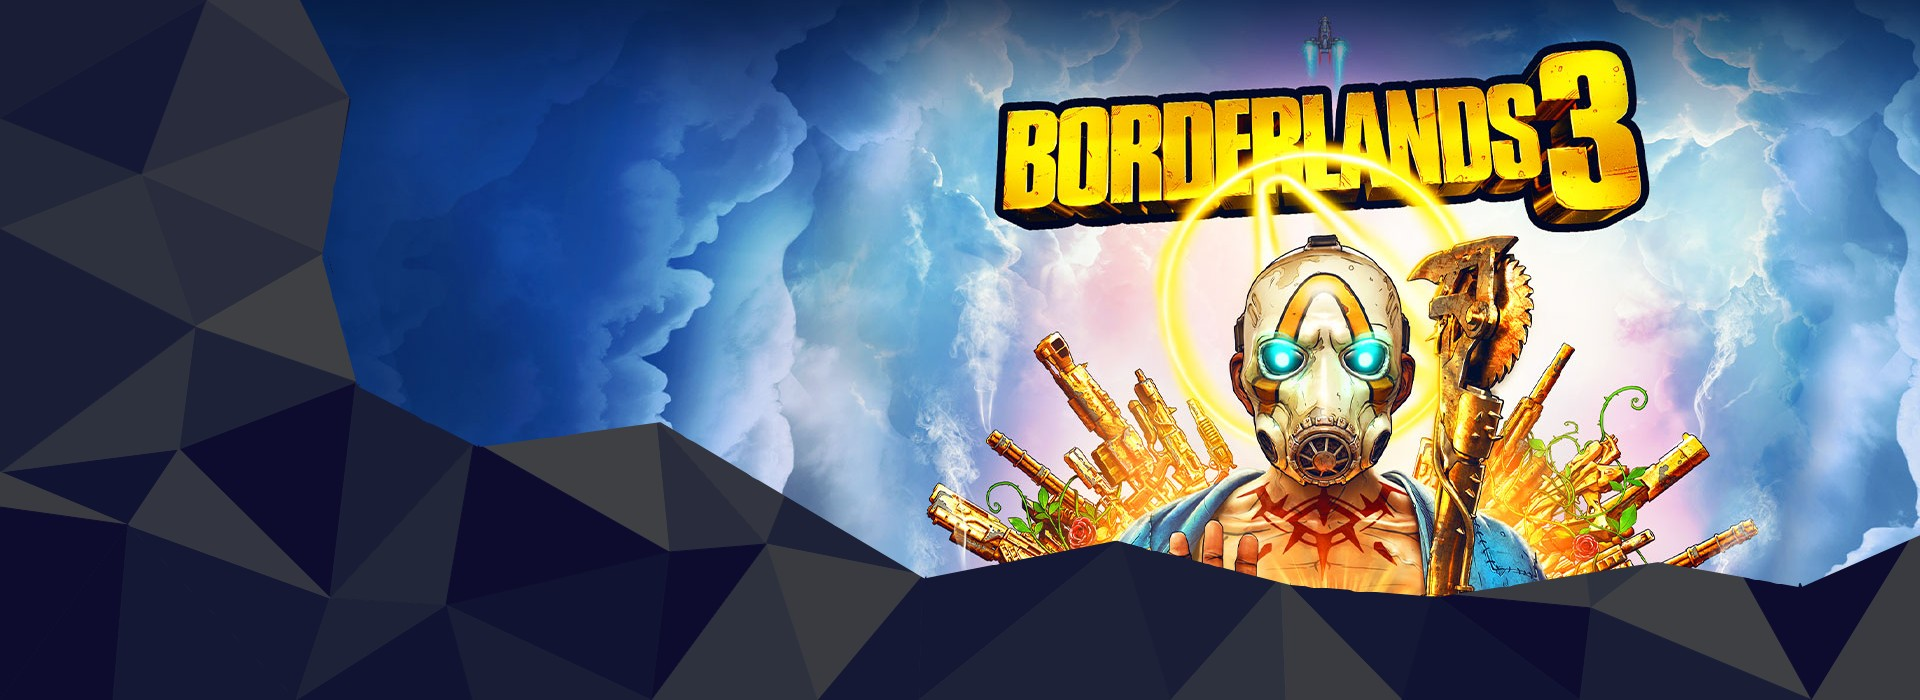
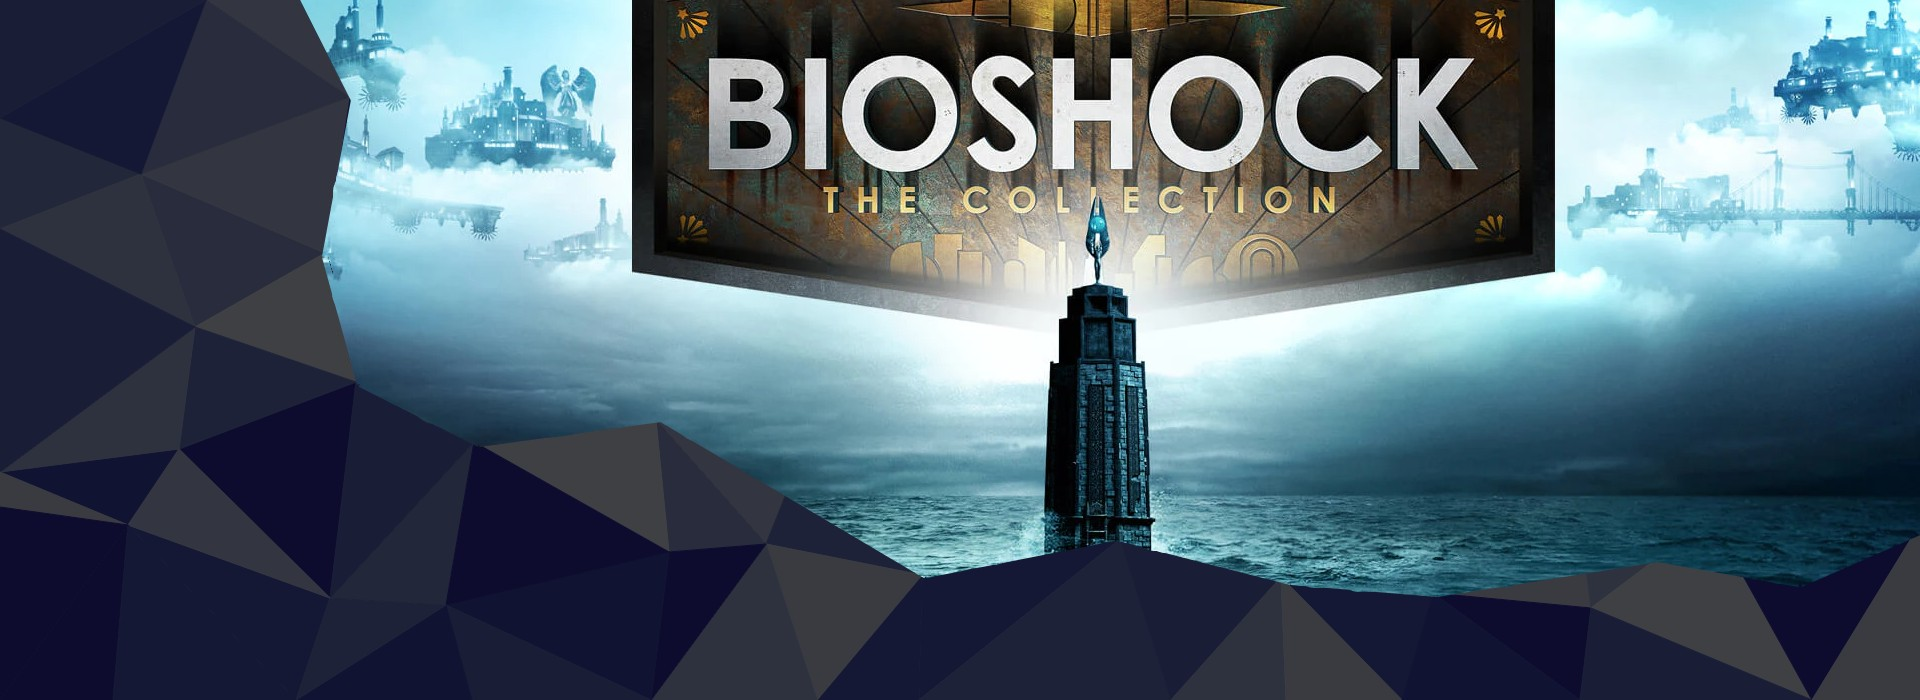
actualizacion 26/5

diff --git a/index.html b/index.html
@@ -61,7 +61,7 @@
                         <div class="carousel-caption d-md-block">
                             <h3 class="text-tipo2">Epic Games</h3>
                             <p class="text-tipo2">Descarga tu juego gratis de esta semana</p>
-                            <a href="https://store.epicgames.com/es-MX/p/borderlands-3" target="_blank"><button class="boton">Consiguelo</button></a>
+                            <a href="https://store.epicgames.com/es-MX/bundles/bioshock-the-collection" target="_blank"><button class="boton">Consiguelo</button></a>
                         </div>
                     </div>
                     <div class="carousel-item mislider">
@@ -113,31 +113,31 @@
             <h2 class="sub_title text-tipo1">Ultimas noticias</h2>
             <div class="info_1 fondo">
                 <div>                
-                    <h3 class="texto_h3 titulo_info1">MultiVersus</h3>
-                    <p class="texto_p parrafo_info1">Esta semana se dio a conocer un nuevo trail;er sobre este gran juego el cual nos plntea jugar con los personajes mas iconicos del mundo, encarna la piel del legendario batman o bien elige a superman, tambien puedes elegir shaggy, buggs bunny, arya stark, iron giants entre muchos personajes mas, podremos disfrutar una beta abierta este proximo julio</p>
+                    <h3 class="texto_h3 titulo_info1">League of legends</h3>
+                    <p class="texto_p parrafo_info1">Ya falta menos para la llegada de esta nueva campeona del vacio y Riot nos sorprende con esta increible skin de Battle Boss para la querida bel veth</p>
                 </div> 
                 <div> 
-                    <iframe width="560" height="315" src="https://www.youtube.com/embed/KJ1oXozcOto" title="YouTube video player" frameborder="0" allow="accelerometer; autoplay; clipboard-write; encrypted-media; gyroscope; picture-in-picture" allowfullscreen></iframe>
+                    <iframe width="560" height="315" src="https://www.youtube.com/embed/LewmGF--F0M" title="YouTube video player" frameborder="0" allow="accelerometer; autoplay; clipboard-write; encrypted-media; gyroscope; picture-in-picture" allowfullscreen></iframe>
                 </div> 
             </div>
 
             <div class="info_2 fondo">
                 <div class="video_2">
-                    <iframe width="560" height="315" src="https://www.youtube.com/embed/TasT4b1qweA" title="YouTube video player" frameborder="0" allow="accelerometer; autoplay; clipboard-write; encrypted-media; gyroscope; picture-in-picture" allowfullscreen></iframe>
+                    <iframe width="560" height="315" src="https://www.youtube.com/embed/PgbrOBvp7hk" title="YouTube video player" frameborder="0" allow="accelerometer; autoplay; clipboard-write; encrypted-media; gyroscope; picture-in-picture" allowfullscreen></iframe>
                 </div>
                 <div>
-                    <h3 class="texto_h3 titulo_info2">Vampire: the masquerade - swansong</h3>
-                    <p class="texto_p parrafo_info2">Este 19 de mayo salio a la venta el juego Vampire: the masquerade - swansong, aui te dejamos un launch trailer por si aun tienes dudas de comprarlo</p>  
+                    <h3 class="texto_h3 titulo_info2">No man's sky</h3>
+                    <p class="texto_p parrafo_info2">Nueva expansion para No man's sky donde debemos utilizar todas sus habilidades de supervivencia para ayudar al especialista Polo a descubrir el misterio de un curioso bucle que ha maldecido el continuo espacio-tiempo. Sospecha que este extraño fenómeno se remonta a una maravillosa criatura espacial casi mítica, el Leviatán</p>  
                 </div>    
             </div>
 
             <div class="info_1 fondo">
                 <div>                
                     <h3 class="texto_h3 titulo_info1">League of legends</h3>
-                    <p class="texto_p parrafo_info1">El vacio quiere apoderarse de Runaterra y el nuevo campeo Vel-vet esta muy cerca, aqui Riot games nos muestra un avance de esta nueva campeona que viene a reinar la jungla en nuestras partidas mas intensas</p>
+                    <p class="texto_p parrafo_info1">Ya esta aqui la version 12.10 de league of legends, una version la cual se ven afectados todos los campeones de la grieta, disfruta con Kameoyo todas las actualizaciones, noticias del MSI, las creaciones de la comunidad y mucho mas</p>
                 </div> 
                 <div> 
-                    <iframe width="560" height="315" src="https://www.youtube.com/embed/N2HbzDRz4w4" title="YouTube video player" frameborder="0" allow="accelerometer; autoplay; clipboard-write; encrypted-media; gyroscope; picture-in-picture" allowfullscreen></iframe>
+                    <iframe width="560" height="315" src="https://www.youtube.com/embed/9ptq9DVM9Cs" title="YouTube video player" frameborder="0" allow="accelerometer; autoplay; clipboard-write; encrypted-media; gyroscope; picture-in-picture" allowfullscreen></iframe>
                 </div> 
             </div>
         </section>
